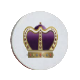
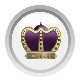
Se cambian las imagenes de las fichas

diff --git a/Damas/src/damas/Juego.java b/Damas/src/damas/Juego.java
@@ -50,13 +50,13 @@ public class Juego {
             for(int j=0; j<=7; j++){
                 if(tablero[i][j].getIcon()!=null){
                     text = tablero[i][j].getIcon().toString();
-                    if(text.equals("src//images//fNegra.png")){
+                    if(text.equals("src//images//fichaNegra.png")){
                         matriz[i][j] = 3;
                     }
-                    else if(text.equals("src//images//fNegraR.png")){
+                    else if(text.equals("src//images//fichaNReina.png")){
                         matriz[i][j] = 4;
                     }
-                    else if(text.equals("src//images//fBlanca.png")){
+                    else if(text.equals("src//images//fichaBlanca1.png")){
                         matriz[i][j] = 1;
                     }
                     else if(text.equals("src//images//fBlancaR.png")){
@@ -819,11 +819,6 @@ public class Juego {
         return puede;
     }
     public void inteligencia(){
-        try {
-            Thread.sleep(800);
-        } catch (InterruptedException ex) {
-            Logger.getLogger(Juego.class.getName()).log(Level.SEVERE, null, ex);
-        }
         if(turno % 2 == 0){
             return;
         }
@@ -954,14 +949,12 @@ public class Juego {
                         
                     }
                     azar = ((int)Math.round(Math.random()*(numNegras - 1)));
-                    System.out.println("Azar es : " + azar);
                     ubicacion = arr[azar];
                     posx = Integer.parseInt(ubicacion.charAt(0) + "");
                     posy = Integer.parseInt(ubicacion.charAt(1) + "");
                     tipito = matriz[posx][posy];
                 }else{//Aqui esta el bollo.!!!
                     azar = ((int)Math.round(Math.random()*(numNegras - 1)));
-                    System.out.println("Azar es : " + azar);
                     ubicacion = arr[azar];
                     posx = Integer.parseInt(ubicacion.charAt(0) + "");
                     posy = Integer.parseInt(ubicacion.charAt(1) + "");

diff --git a/Damas/src/damas/Damas.java b/Damas/src/damas/Damas.java
@@ -26,10 +26,10 @@ public class Damas extends JFrame implements ActionListener{
     JButton tablero[][];
     JPanel PanelTablero, PanelOpc;
     JScrollPane ScrollTable;
-    ImageIcon negra = new ImageIcon("src//images//fNegra.png");
-    ImageIcon blanca = new ImageIcon("src//images//fBlanca.png");
+    ImageIcon negra = new ImageIcon("src//images//fichaNegra.png");
+    ImageIcon blanca = new ImageIcon("src//images//fichaBlanca1.png");
     ImageIcon blancaR = new ImageIcon("src//images//fBlancaR.png");
-    ImageIcon negraR = new ImageIcon("src//images//fNegraR.png");
+    ImageIcon negraR = new ImageIcon("src//images//fichaNReina.png");
     JButton ensayo;
     Juego matriz;
     Juego maquina;
@@ -185,13 +185,13 @@ public class Damas extends JFrame implements ActionListener{
             
             if(tablero[i][j].getIcon()!=null){
                     text = tablero[i][j].getIcon().toString();
-                    if(text.equals("src//images//fNegra.png")){
+                    if(text.equals("src//images//fichaNegra.png")){
                         tipo = 3;
                     }
-                    else if(text.equals("src//images//fNegraR.png")){
+                    else if(text.equals("src//images//fichaNReina.png")){
                         tipo = 4;
                     }
-                    else if(text.equals("src//images//fBlanca.png")){
+                    else if(text.equals("src//images//fichaBlanca1.png")){
                         tipo = 1;
                     }
                     else if(text.equals("src//images//fBlancaR.png")){
